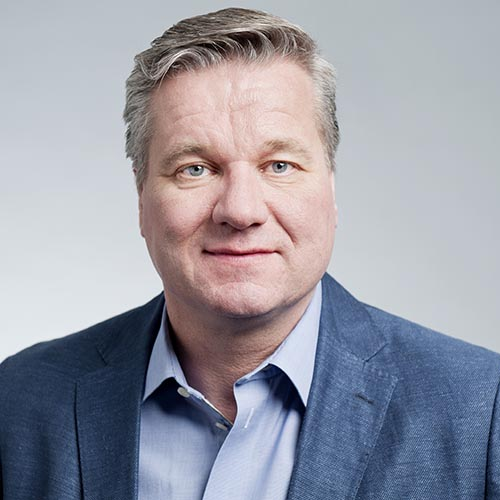
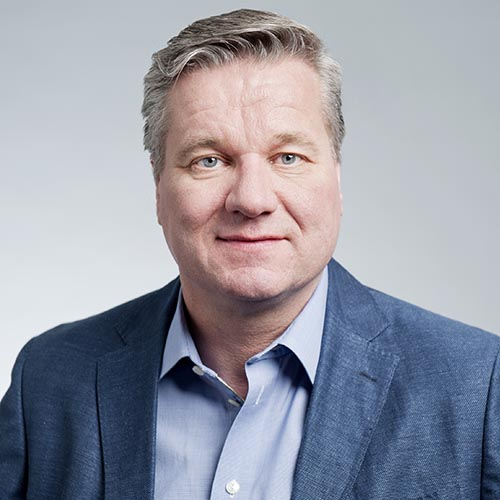
resized headshots for mauro and white, and hennecke, to match zoom of other people

Changed region(s): [[0.0, 0.0, 1.0, 1.0], [0.48, 0.15, 0.51, 0.18]]

diff --git a/index.html b/index.html
@@ -227,7 +227,7 @@
           </div>
           <div class="row person">
             <div class="col-md-4">
-              <img class="img-circle headshot" src="img/team2/blankicon.png" alt="Cindy Berman">
+              <img class="img-circle headshot" src="img/team2/icontestwhite.png" alt="Cindy Berman">
               <h4>Cindy Berman</h4>
               <h5>Nonclinical Advisor</h5>
               <h6>Click Below to See Bio</h6>
